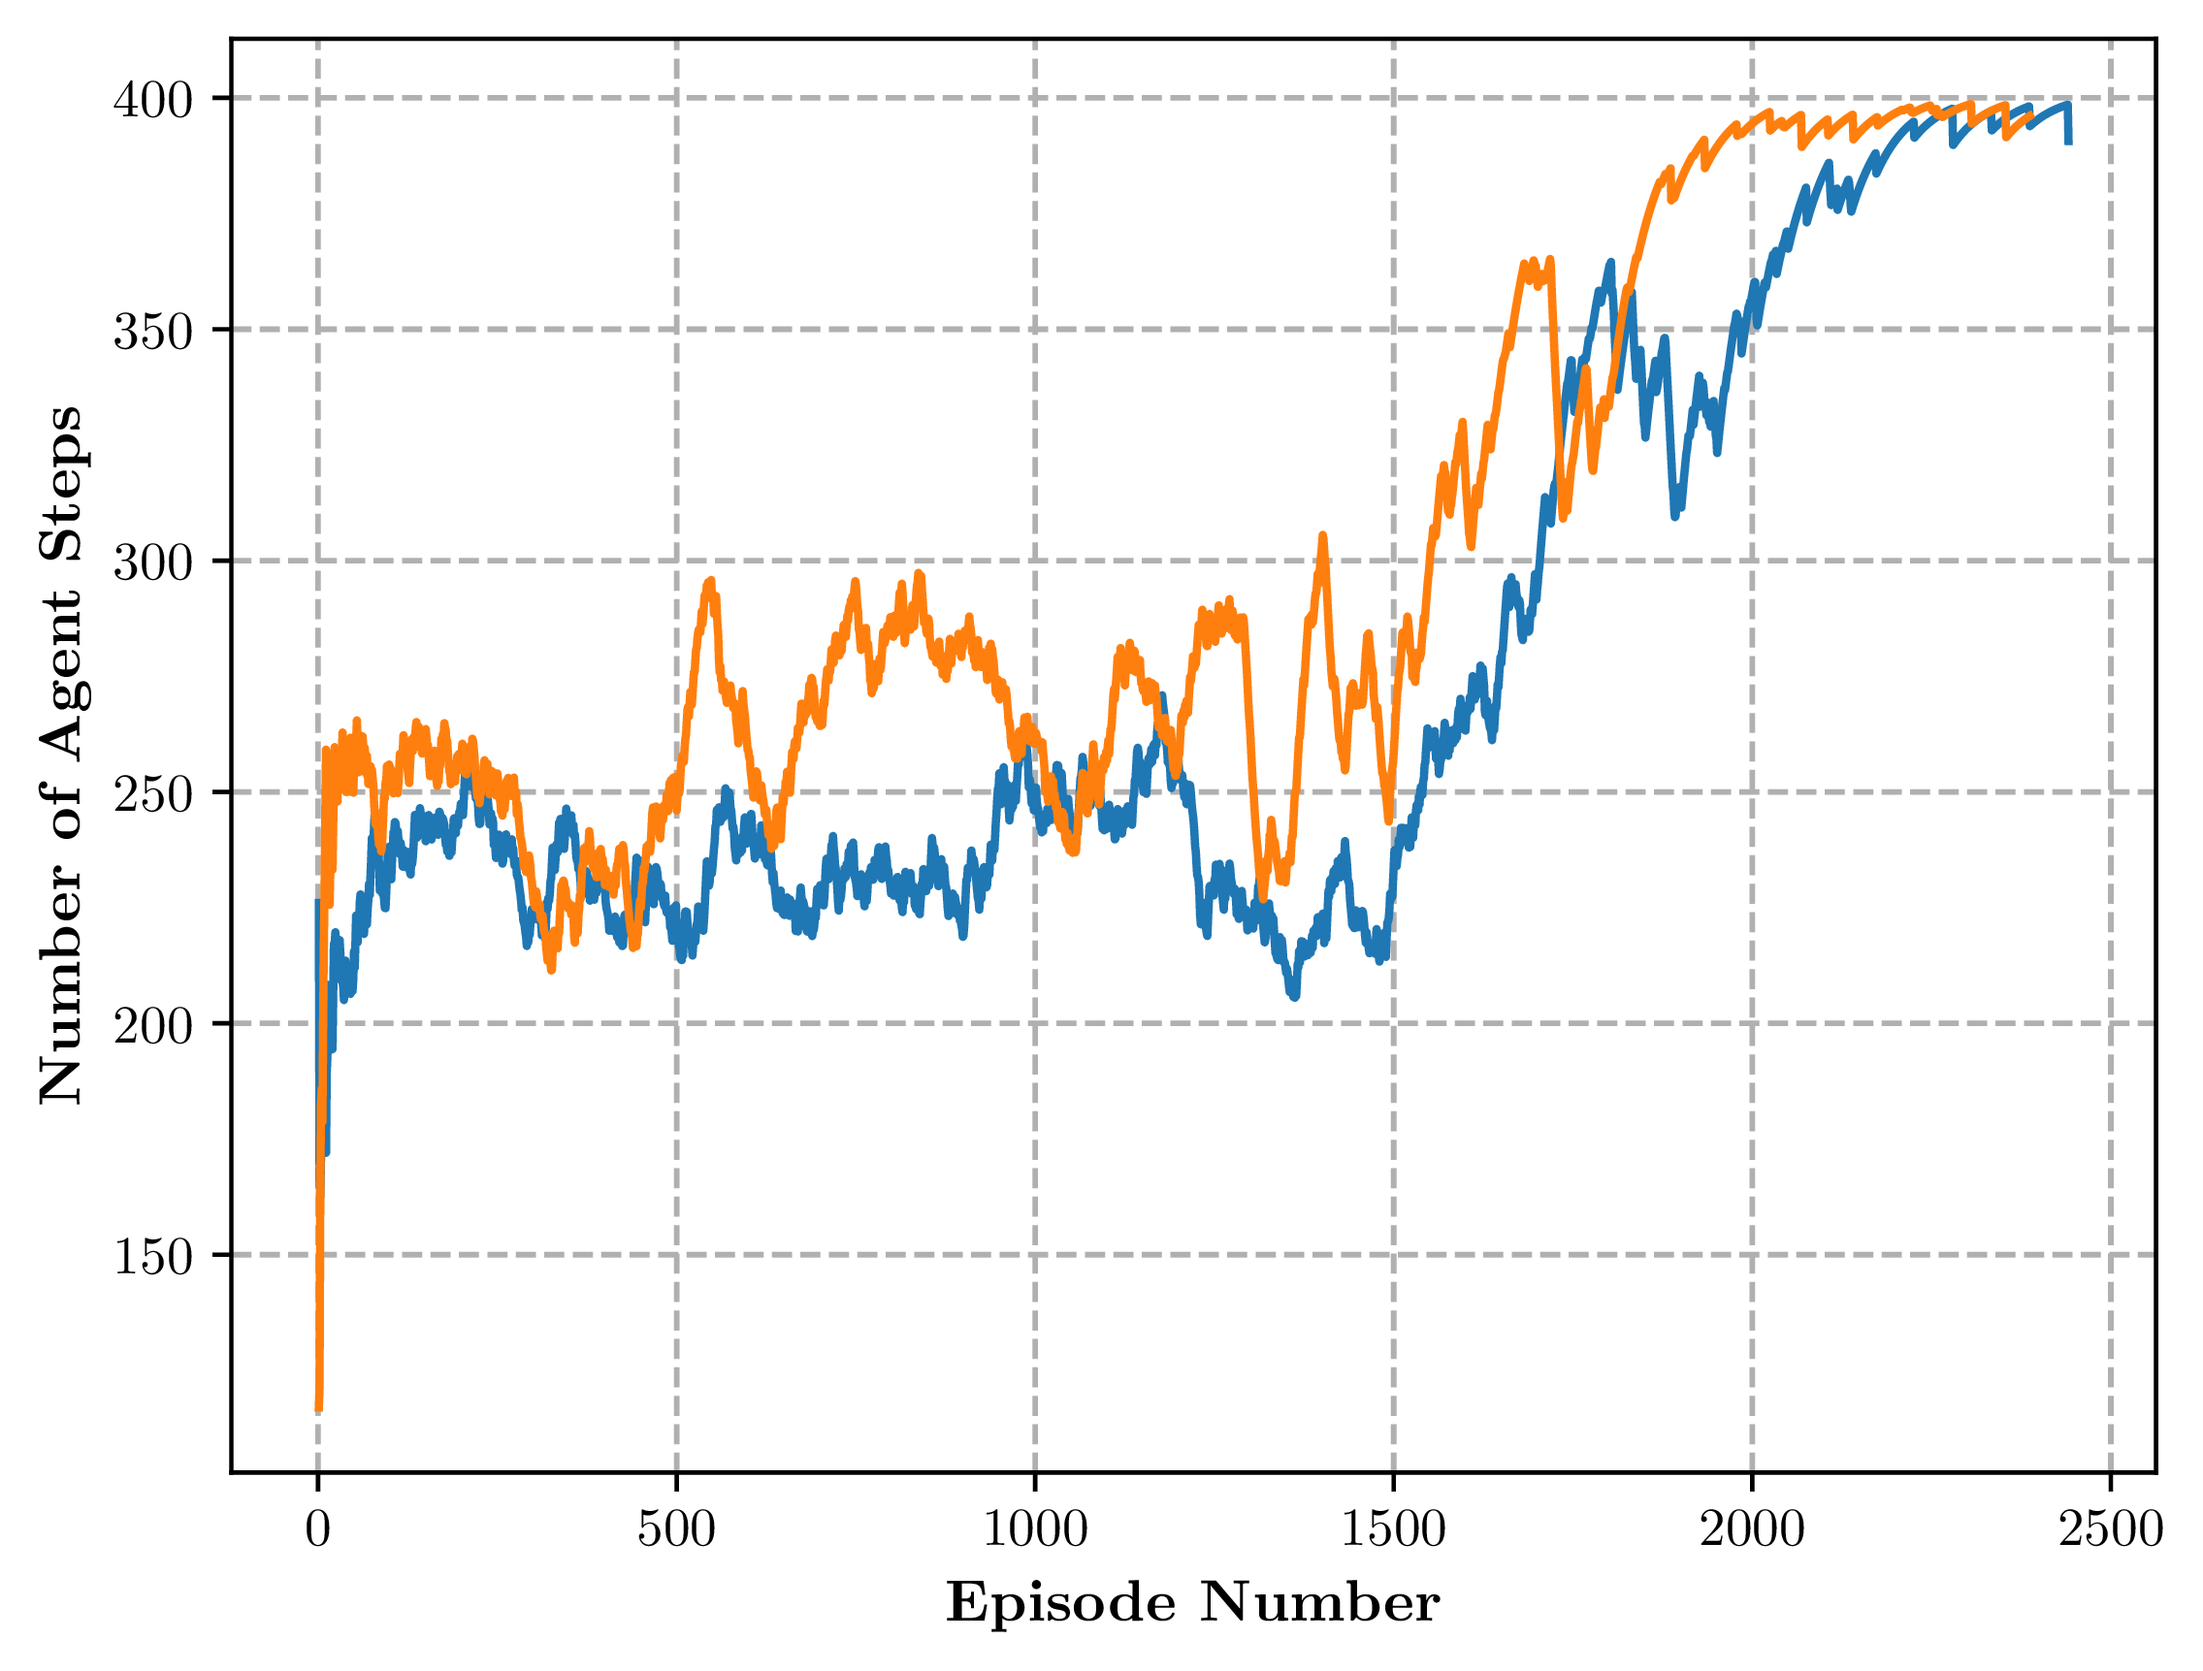
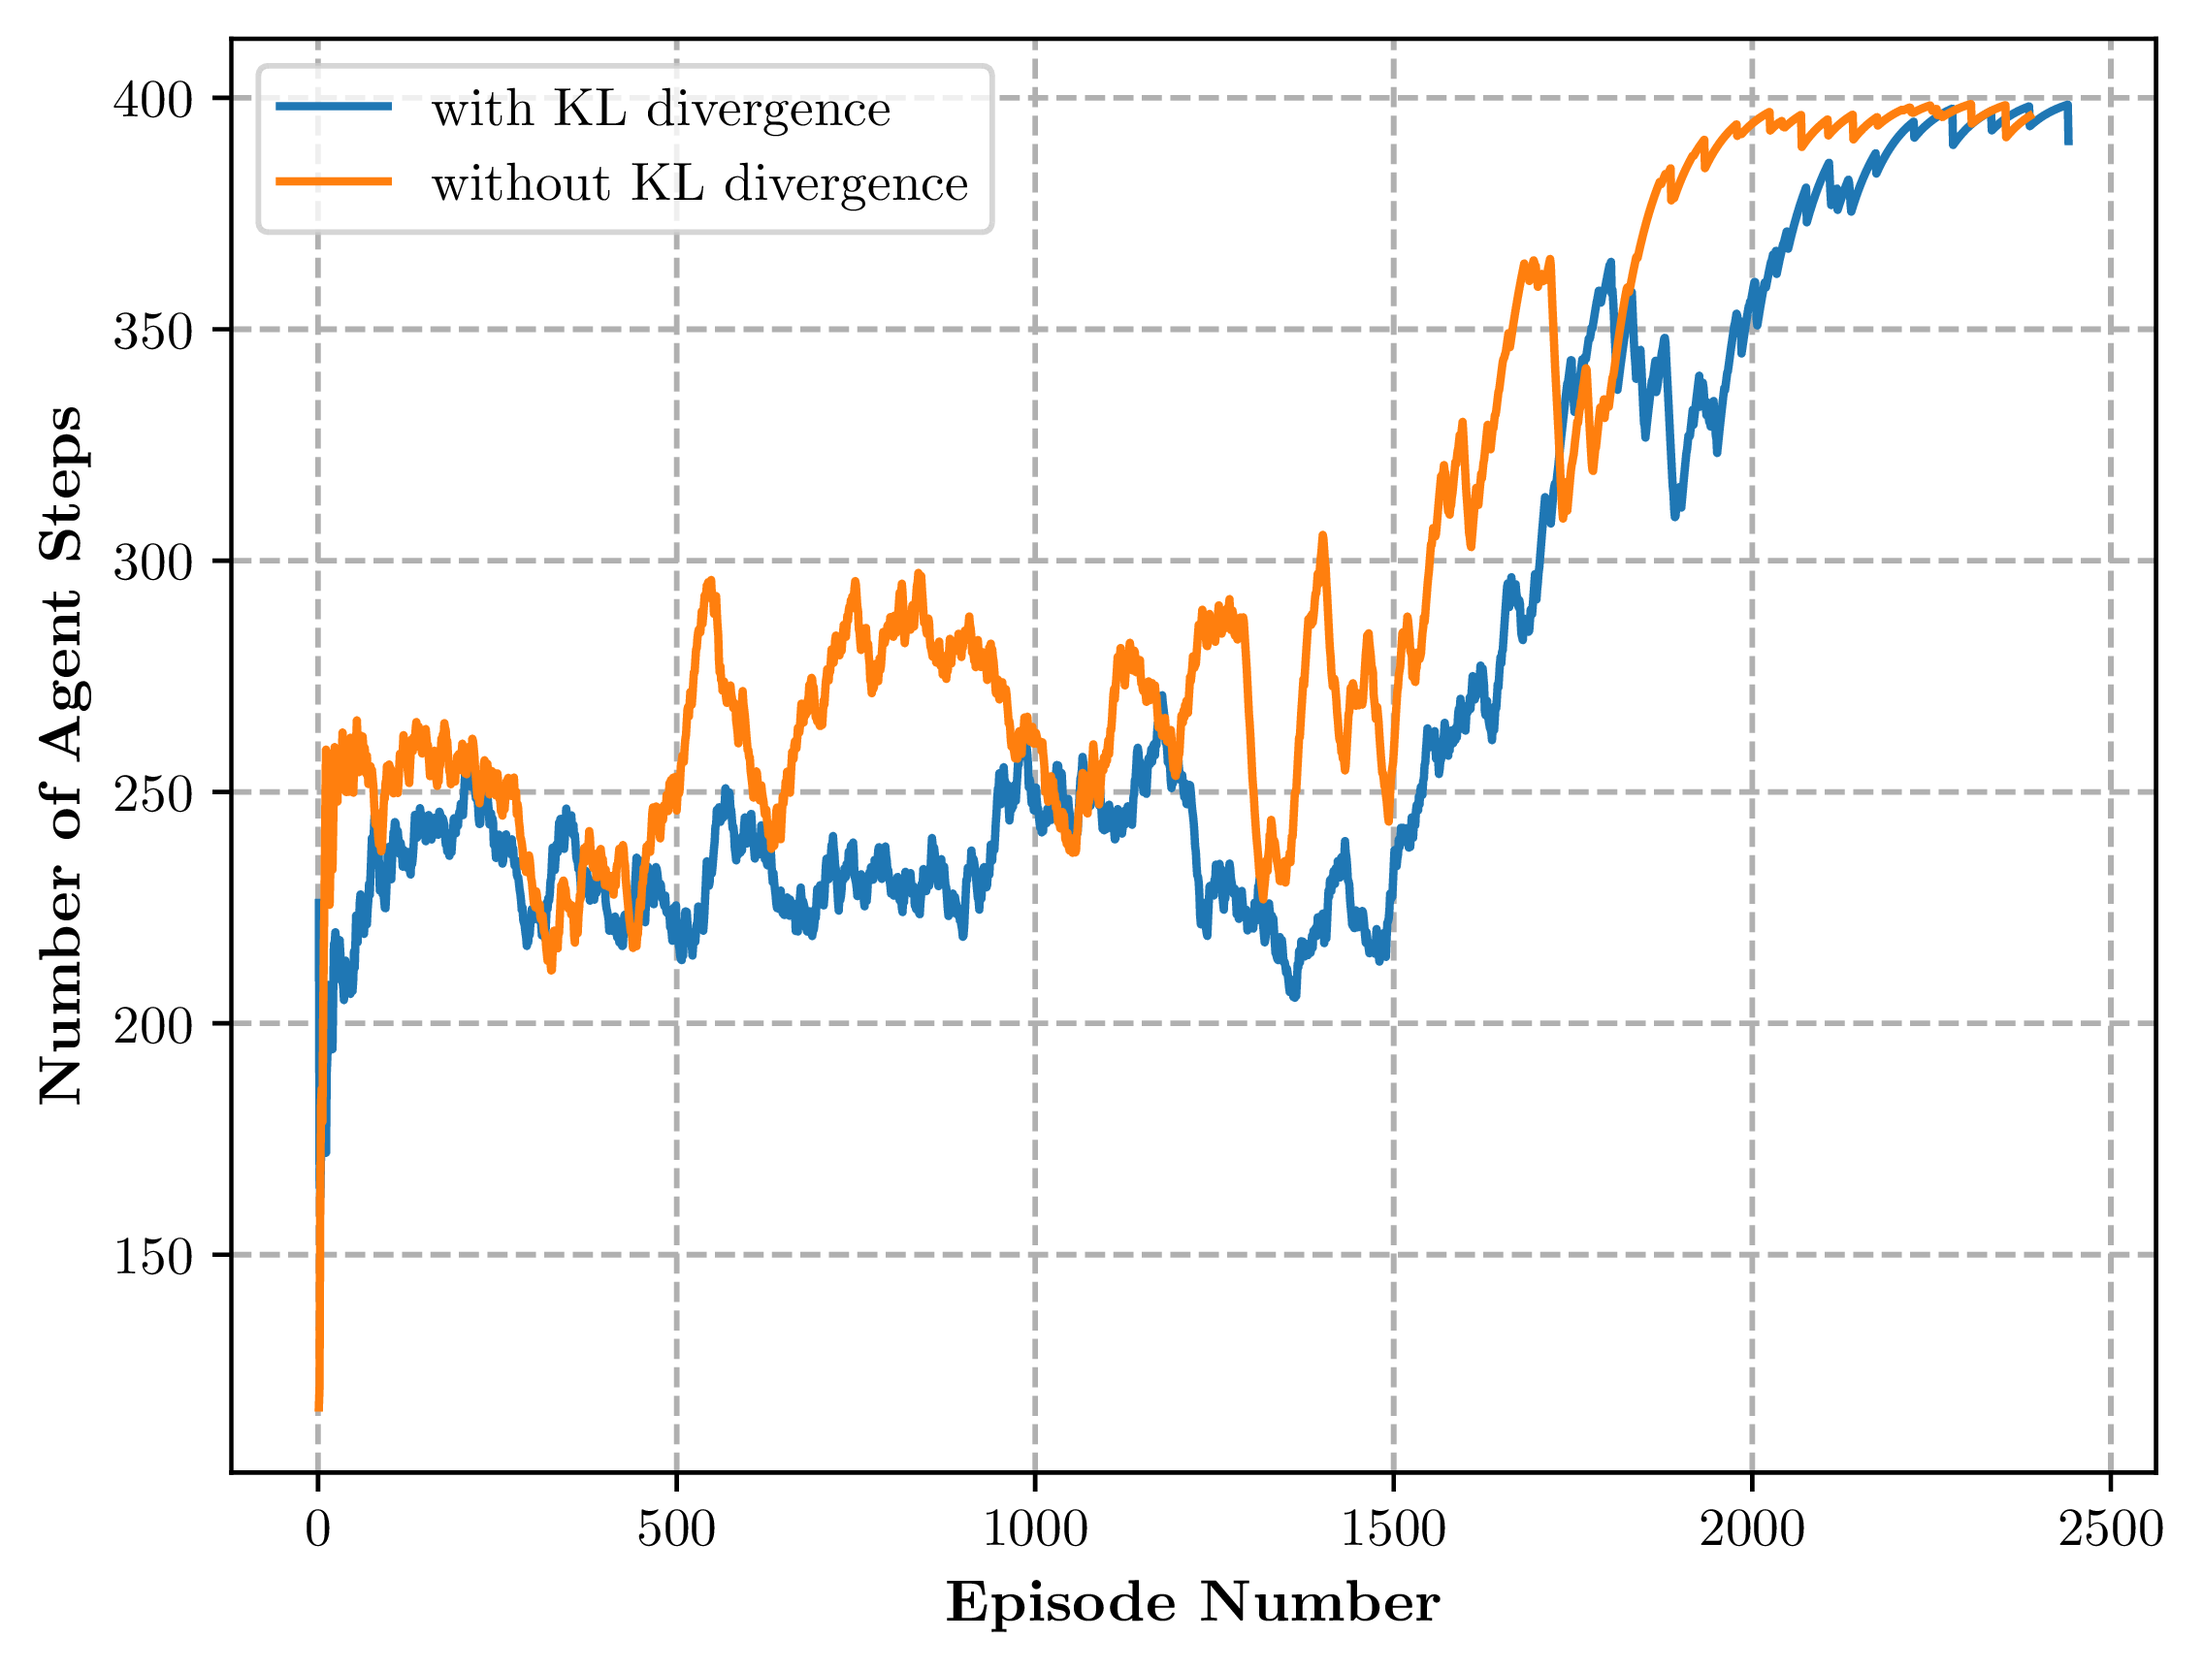
add legend

Changed region(s): [[0.1233, 0.0308, 0.4624, 0.1538]]

diff --git a/plot-route-statistics.py b/plot-route-statistics.py
@@ -84,7 +84,7 @@ ax.plot('episode', 'total_steps_ema', data=df_no_kl, label='without KL divergenc
 ax.set_xlabel(r'\textbf{Episode Number}', fontsize=11)
 ax.set_ylabel(r'\textbf{Number of Agent Steps}', fontsize=11)
 ax.grid(linestyle='--', linewidth=1)
-#ax.legend()
+ax.legend()
 
 fig.savefig(OUTPUT_DIR +'steps.png', dpi=400, bbox_inches="tight")
 
